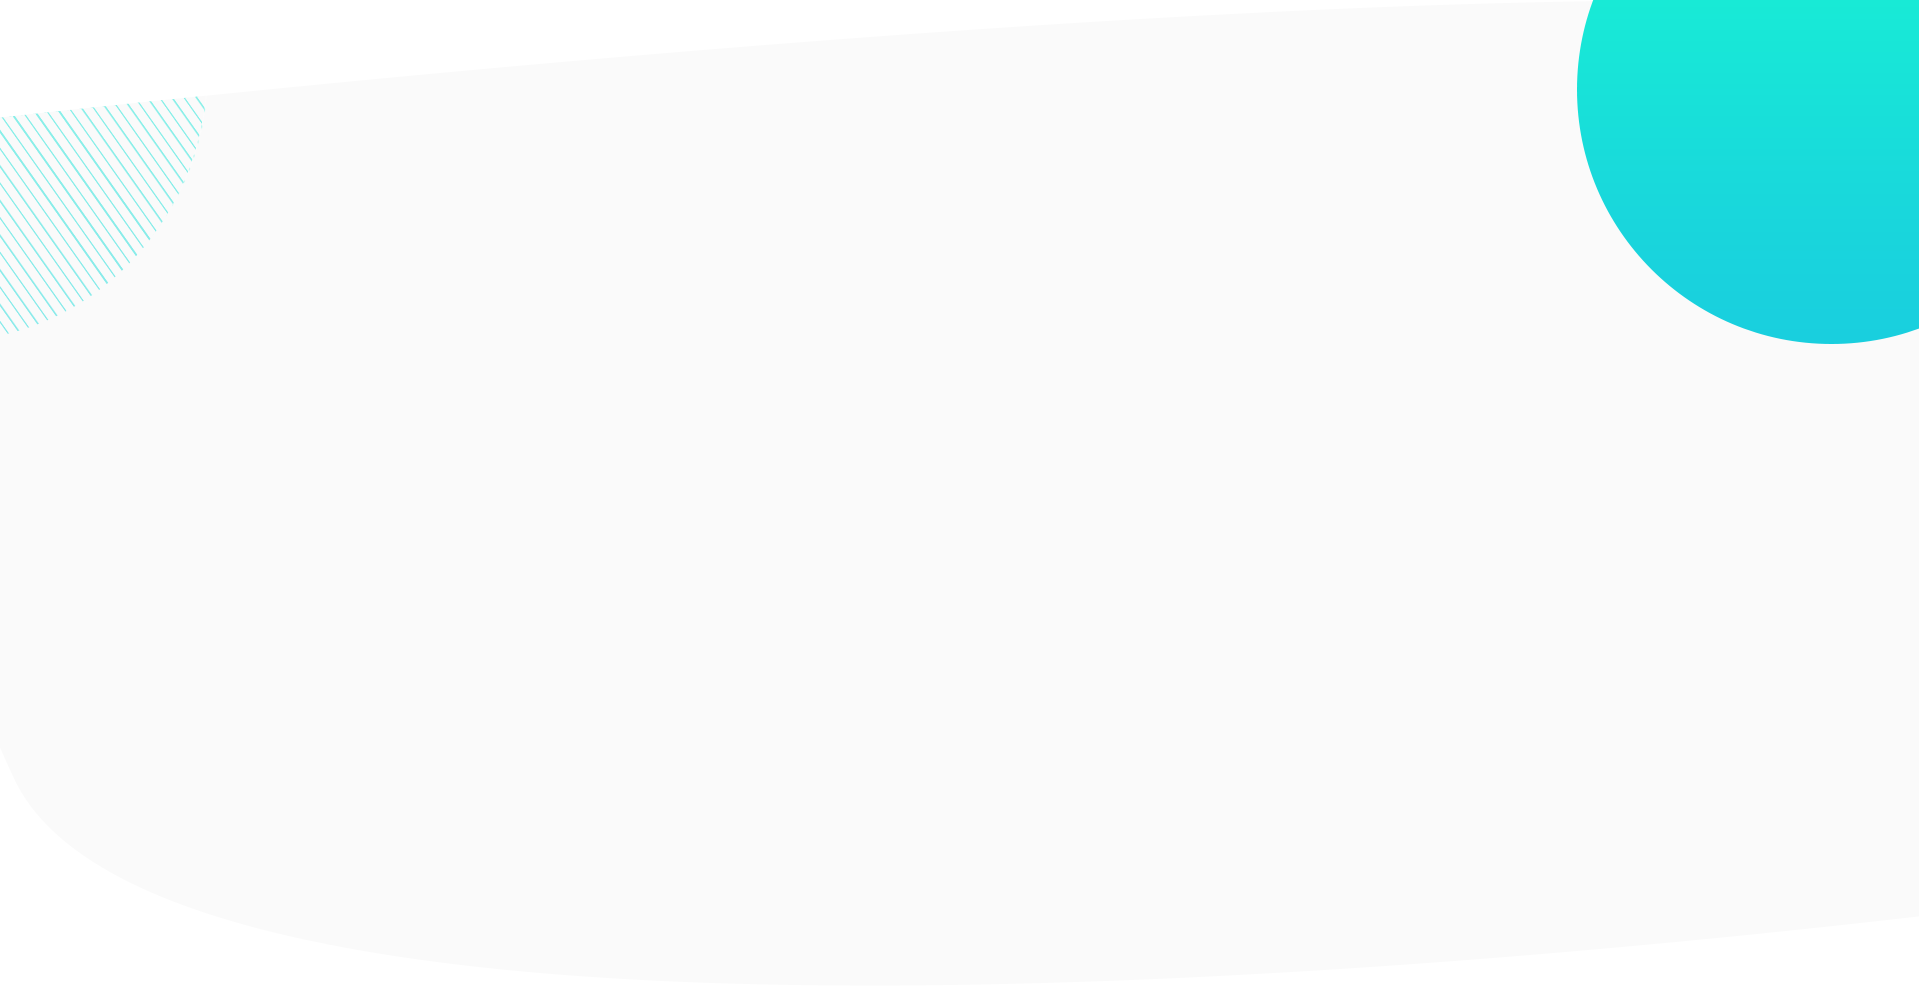
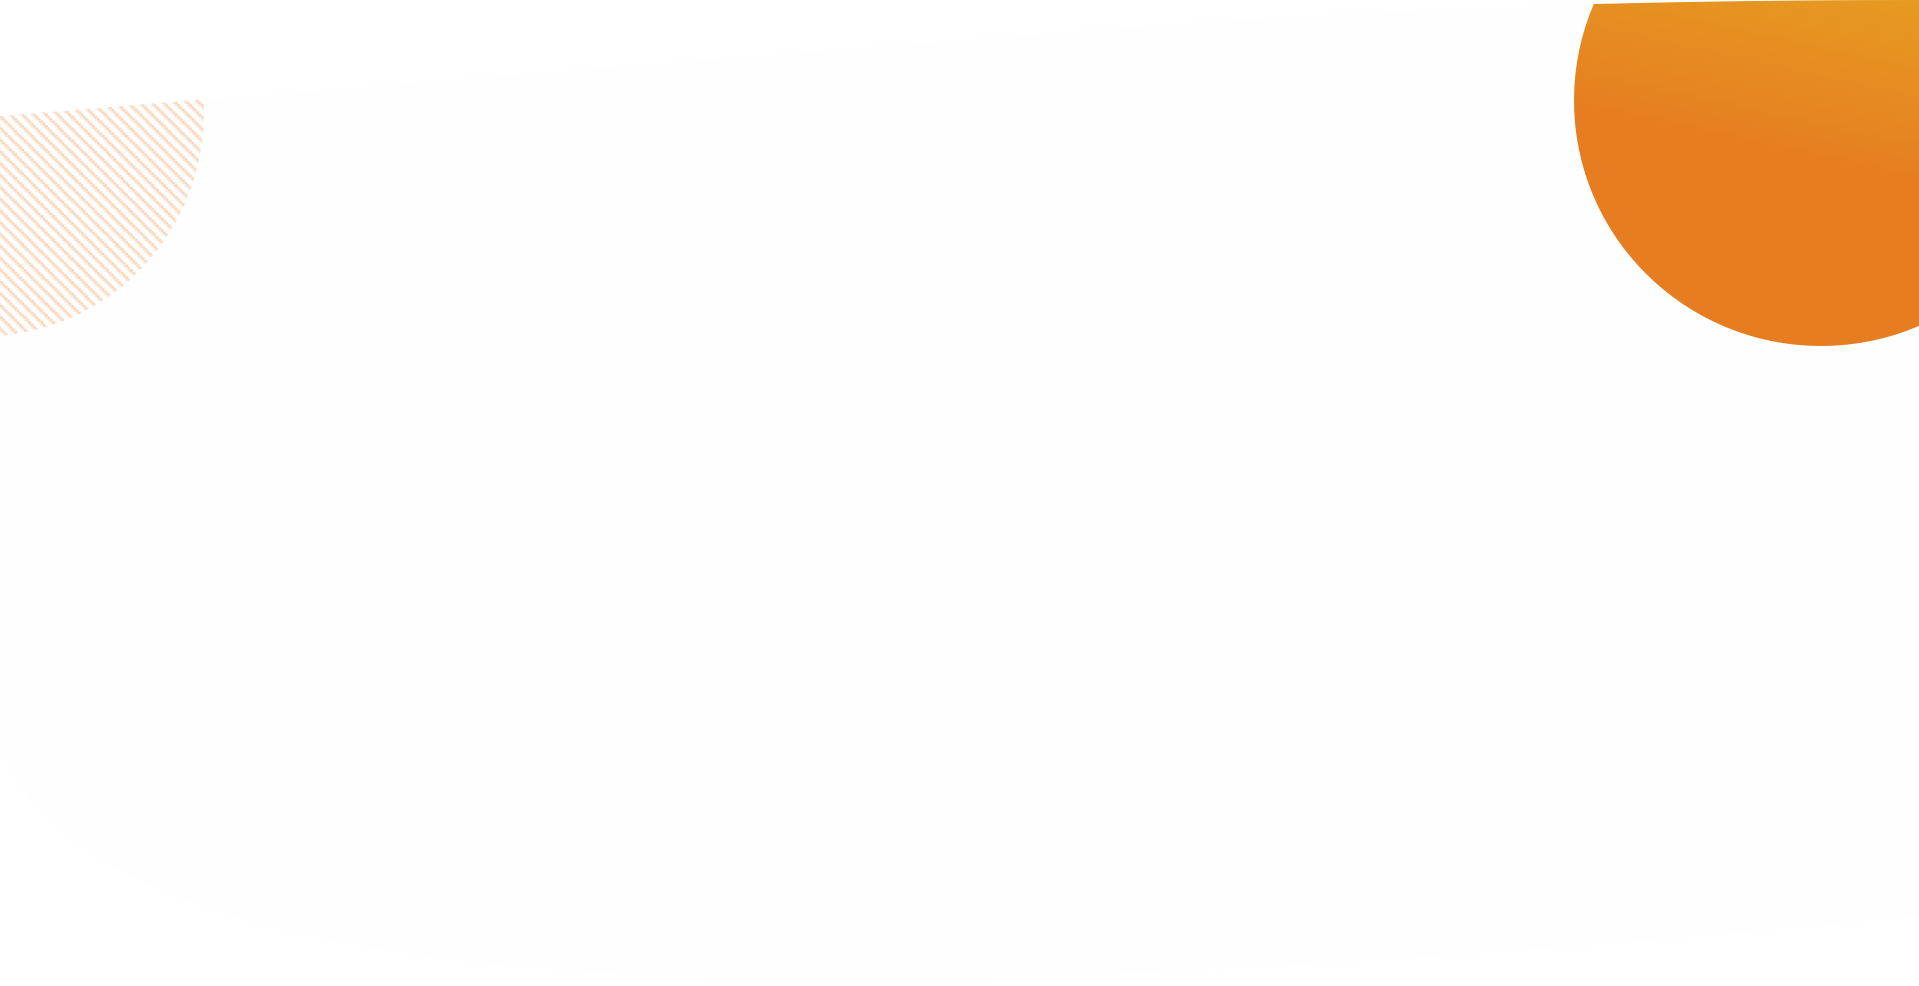
replaced background signin and signup

Changed region(s): [[0.7994, 0.0, 1.0, 0.3651], [0.0, 0.0913, 0.123, 0.3347]]

diff --git a/src/app/user/user.component.ts b/src/app/user/user.component.ts
@@ -1,4 +1,5 @@
 import { Component, OnInit } from '@angular/core';
+import {ActivatedRoute} from "@angular/router";
 
 @Component({
   selector: 'app-user',
@@ -7,9 +8,13 @@ import { Component, OnInit } from '@angular/core';
 })
 export class UserComponent implements OnInit {
 
-  constructor() { }
+  isLogin: boolean = false
+  isSignup: boolean = false
+
+  constructor(private route: ActivatedRoute) { }
 
   ngOnInit() {
+    console.log("path: " + this.route.snapshot.pathFromRoot);
   }
 
 }

diff --git a/src/assets/scss/style.scss b/src/assets/scss/style.scss
@@ -2751,7 +2751,7 @@
       align-items: center;
       justify-content: center;
       background: #fafafa;
-      background-image: url(./images/auth-bg.jpg);
+      background-image: url(./images/auth-bg.png);
       background-repeat: no-repeat;
       .innerpage-decor {
         .innerpage-circle1 {
